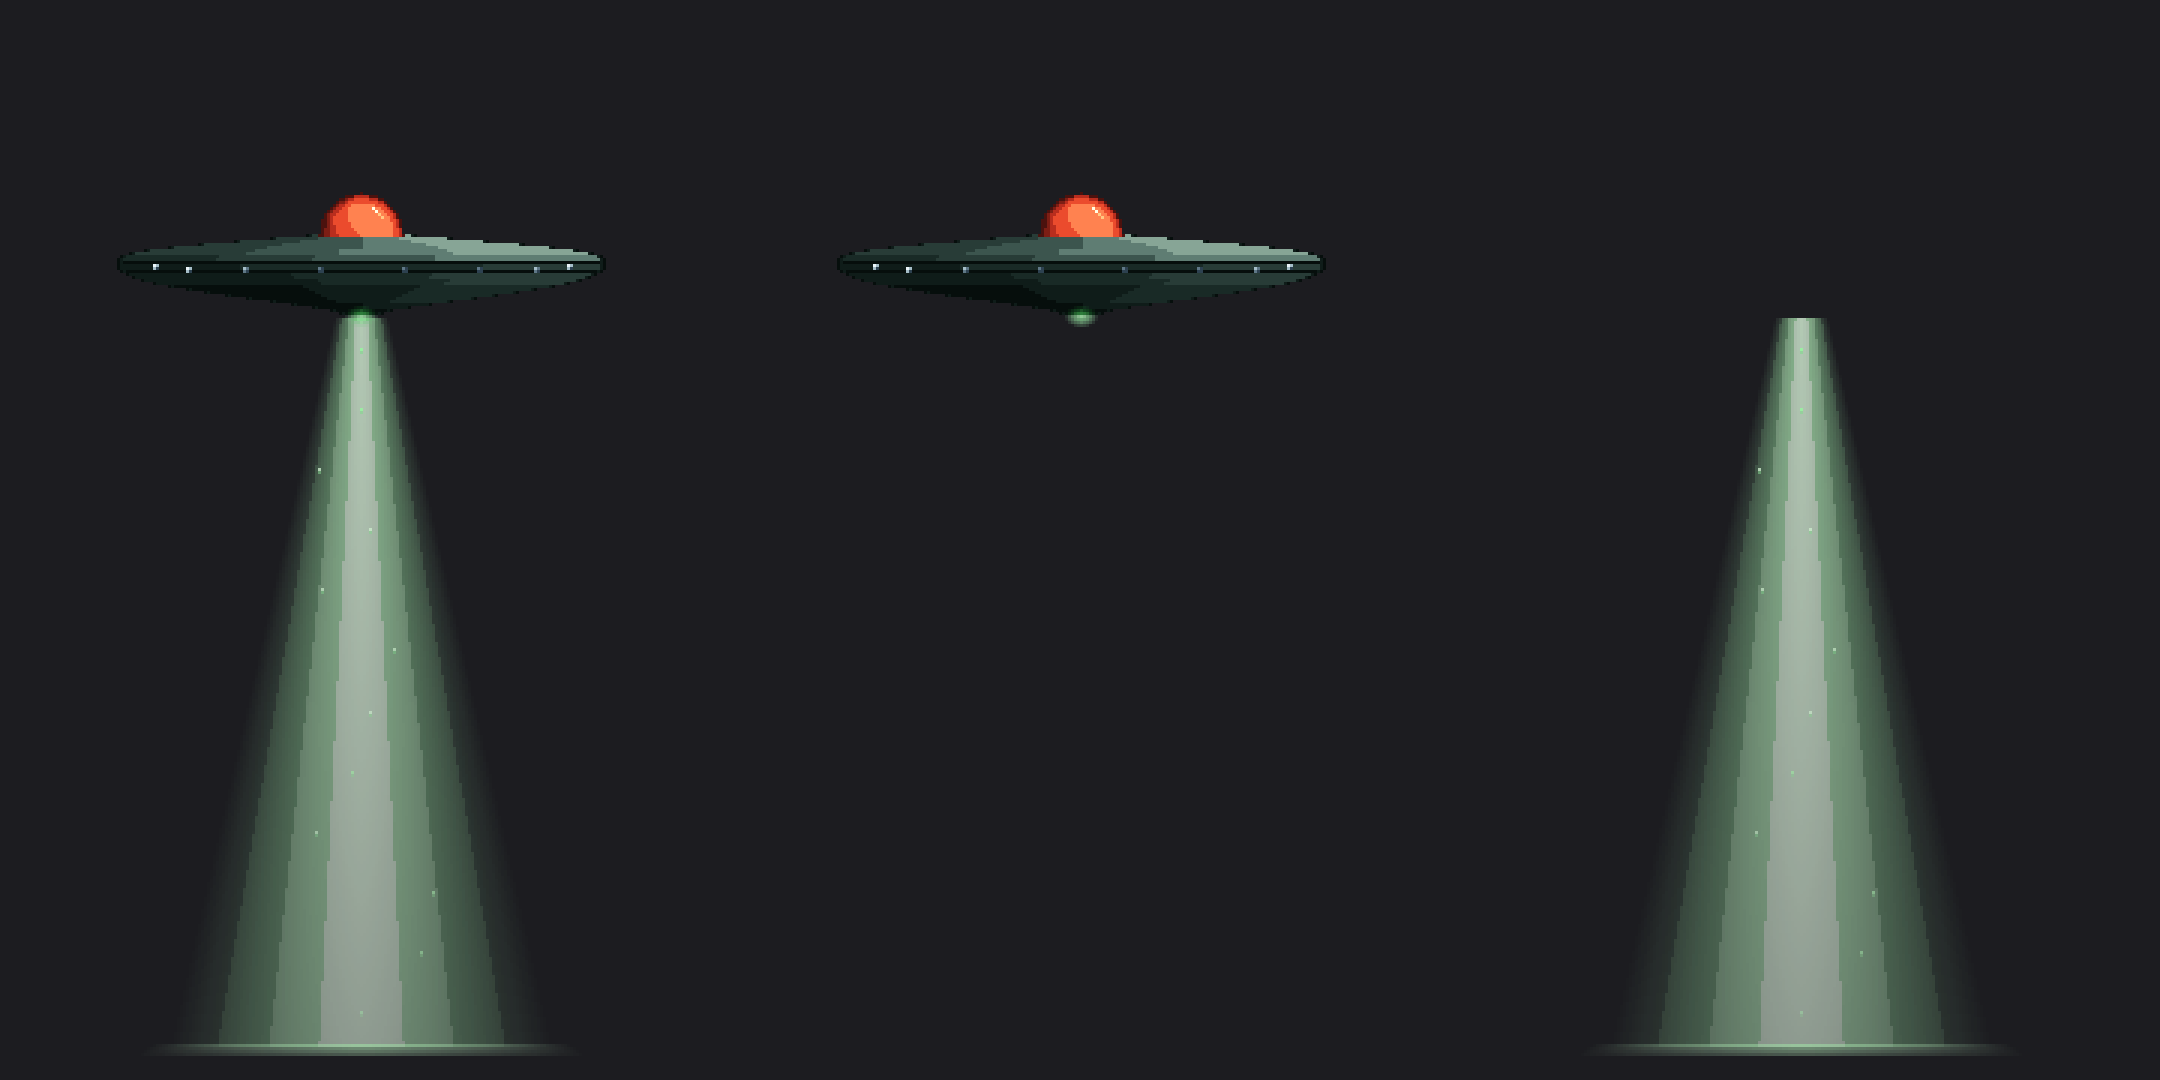
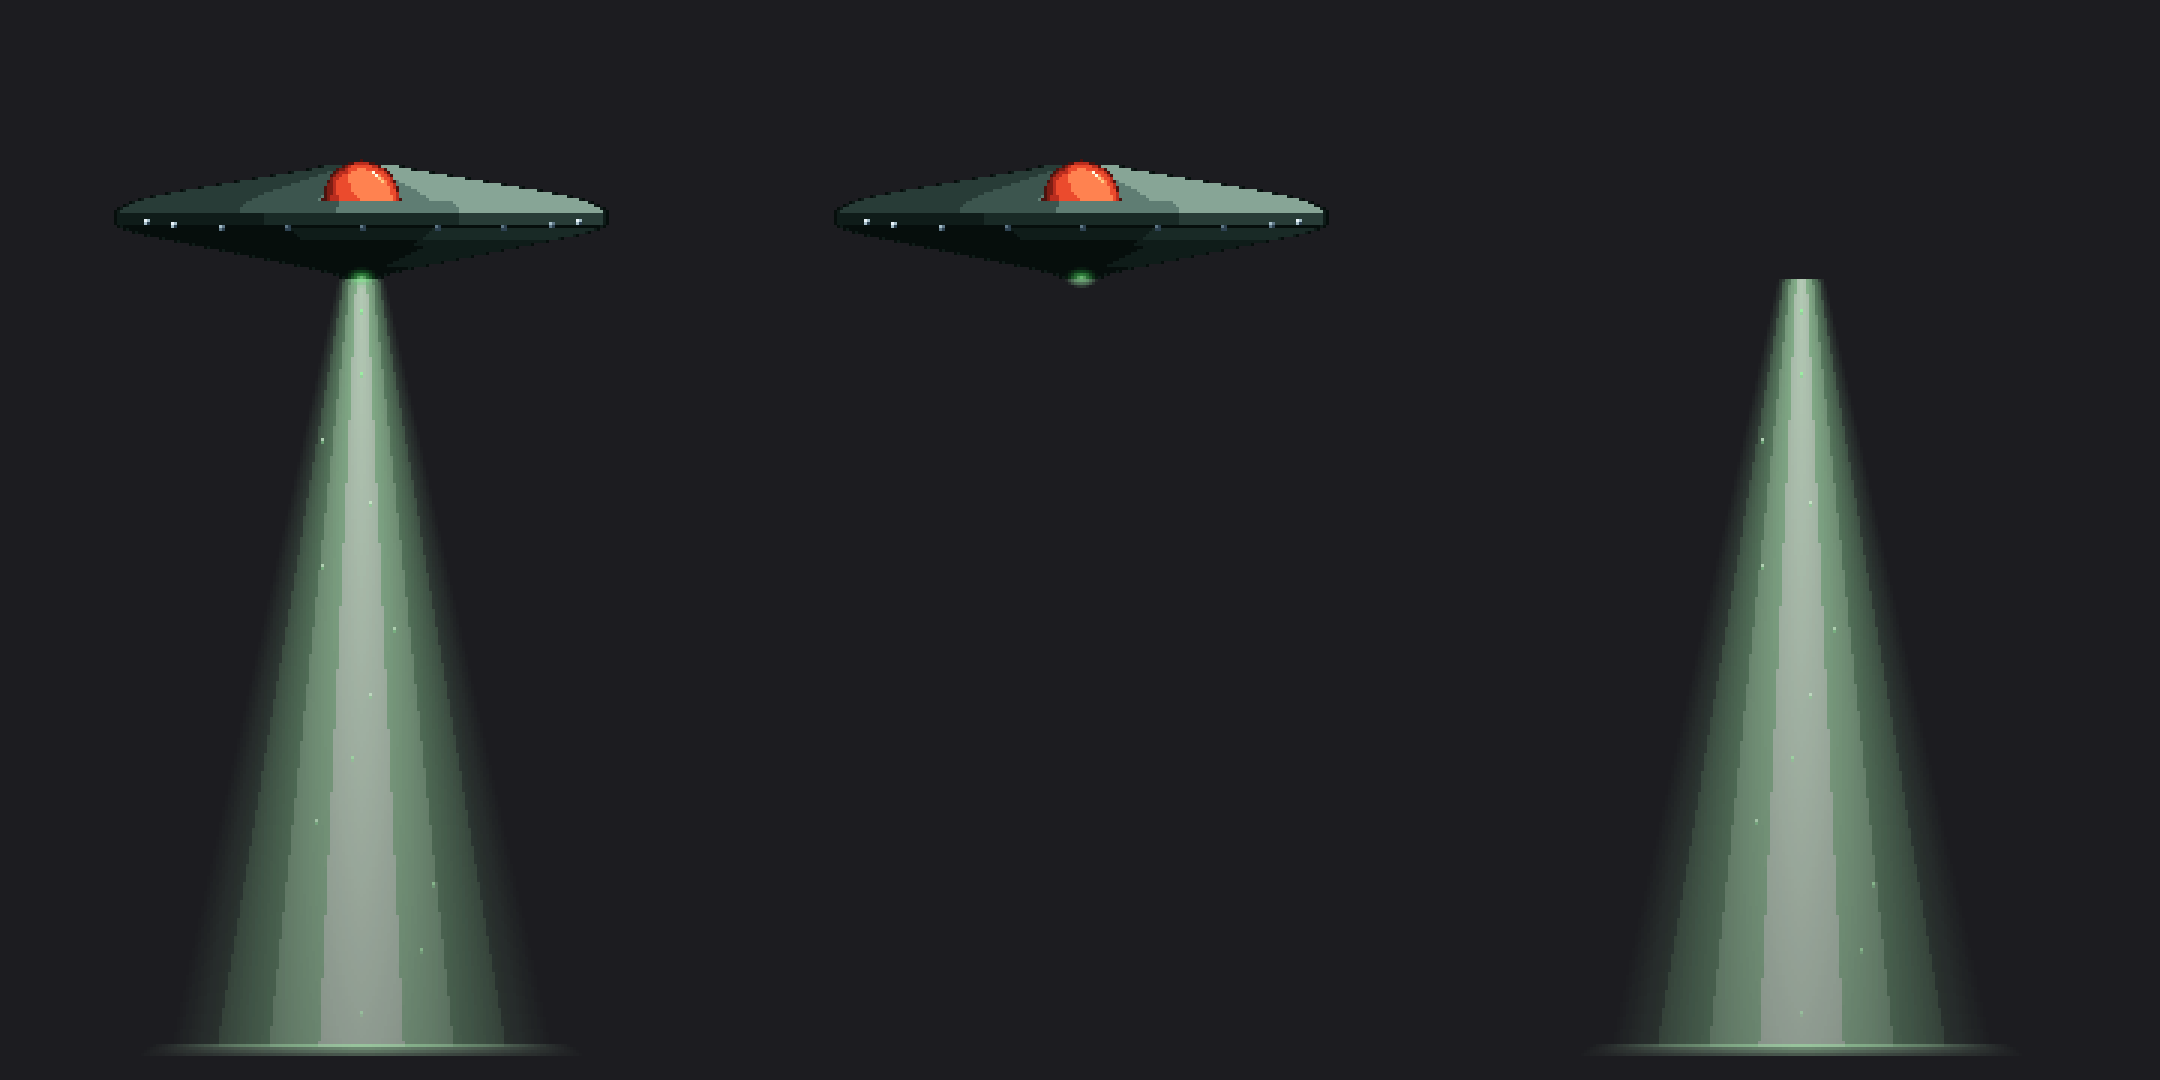
Tilt the saucer to a from-below-front perspective
To match the reference camera angle: the saucer is now seen looking up
from below and slightly forward. Key changes:

- Dome moves up (DCY_BASE 76 → 64) so it sits with most of its body
  above the saucer rim
- New SAUCER_ROWS data: the rim's back arc widens above where the dome
  base sits, then the dome is drawn on top so it occludes the central
  part of the back arc — leaving "wings" of rim curving up around it
- Front of the rim curves down through narrowing rows that transition
  into the prominent underside bowl (the big visible surface from below)
- 9 rim portholes are now placed on a wider arc (rim_rx 70 → 73) with
  a subtle vertical curve from perspective foreshortening
- Shading flipped: back arc gets the highlight (top-lit), porthole band
  is mid-tone, front rim and underside are in shadow (darkest)
- Emitter glow + beam origin moved up to track the new underside center

Changed region(s): [[0.062, 0.1528, 0.2792, 0.3972], [0.3722, 0.1528, 0.6204, 0.3056], [0.8065, 0.2444, 0.8685, 0.4583]]

diff --git a/build_ufo2_anim.py b/build_ufo2_anim.py
@@ -81,9 +81,11 @@ def hover(frame):
     return int(round(math.sin(frame / TOTAL_FRAMES * TAU) * 2))
 
 
-# ── DOME geometry (small red hemisphere on top) ──────
-DCY_BASE = 76
-DR = 14
+# ── DOME geometry (small red dome sitting on top, viewed from below) ──
+# Looking up at the UFO, only the front-upper portion of the dome shows;
+# the back of the rim curves up around it.
+DCY_BASE = 64
+DR = 13
 
 # Lighting for dome (light from upper-right, like the reference)
 _Lx, _Ly, _Lz = 0.42, 0.55, 0.72
@@ -122,36 +124,54 @@ def draw_dome(put, frame):
         put(HCX + dx, cy_base + dy, c)
 
 
-# ── SAUCER body row data (manual silhouette) ──────────
+# ── SAUCER body rows — viewed from below-front, rim back-arc curves up
+# around the dome and the underside takes up most of the silhouette.
 SAUCER_ROWS = [
-    # y, hw, role
-    (76, 18, 'rim_flare'),
-    (77, 30, 'rim_flare'),
-    (78, 42, 'rim_flare'),
-    (79, 54, 'rim_flare'),
-    (80, 64, 'rim_flare'),
-    (81, 72, 'rim_top'),
-    (82, 77, 'rim_top'),
-    (83, 80, 'body_hi'),
-    (84, 81, 'body_hi'),
-    (85, 81, 'seam'),
-    (86, 81, 'body_ports'),   # porthole band
-    (87, 81, 'body_ports'),
-    (88, 80, 'seam'),
-    (89, 78, 'body_dark'),
-    (90, 76, 'body_dark'),
-    (91, 73, 'under_top'),
-    (92, 69, 'under_top'),
-    (93, 64, 'under'),
-    (94, 58, 'under'),
-    (95, 52, 'under'),
-    (96, 45, 'under'),
-    (97, 38, 'under'),
-    (98, 30, 'under'),
-    (99, 23, 'under_end'),
-    (100, 16, 'under_end'),
-    (101, 10, 'emitter'),
-    (102, 7,  'emitter'),
+    # Back arc of the rim peeking out behind/around the dome.
+    # Drawn first, the dome will overwrite the central part — leaving
+    # the "wings" of the back arc visible to the left/right of the dome.
+    (53, 14, 'back_arc'),
+    (54, 18, 'back_arc'),
+    (55, 24, 'back_arc'),
+    (56, 30, 'back_arc'),
+    (57, 36, 'back_arc'),
+    (58, 42, 'back_arc'),
+    (59, 48, 'back_arc'),
+    (60, 54, 'back_arc'),
+    (61, 60, 'back_arc'),
+    (62, 65, 'back_arc'),
+    (63, 70, 'back_arc'),
+    (64, 74, 'back_arc'),
+    # Rim sides reaching widest
+    (65, 77, 'rim_edge'),
+    (66, 79, 'rim_edge'),
+    (67, 81, 'rim_edge'),
+    (68, 82, 'rim_edge'),
+    # Porthole band (the front-bottom of the rim ellipse, where lights are)
+    (69, 82, 'ports'),
+    (70, 82, 'ports'),
+    (71, 82, 'ports'),
+    (72, 82, 'ports'),
+    (73, 81, 'ports_bot'),
+    # Front rim curving down (lower half of rim ellipse)
+    (74, 79, 'rim_front'),
+    (75, 76, 'rim_front'),
+    (76, 72, 'rim_front'),
+    (77, 67, 'rim_front'),
+    # Underside (the big visible bowl)
+    (78, 62, 'under_top'),
+    (79, 57, 'under_top'),
+    (80, 52, 'under'),
+    (81, 47, 'under'),
+    (82, 42, 'under'),
+    (83, 37, 'under'),
+    (84, 32, 'under'),
+    (85, 27, 'under'),
+    (86, 22, 'under'),
+    (87, 17, 'under_end'),
+    (88, 13, 'under_end'),
+    (89, 9,  'emitter'),
+    (90, 7,  'emitter'),
 ]
 
 
@@ -159,44 +179,44 @@ def shade_saucer(role, dx, hw):
     rel = dx / max(hw, 1)
     if abs(dx) == hw and hw > 3: return HULL_O
     if abs(dx) >= hw - 1 and hw > 6: return HULL_DD
-    if role == 'rim_flare':
-        if rel > 0.4: return HULL_VL
-        if rel > 0.0: return HULL_HI
-        if rel > -0.5: return HULL_L
+    if role == 'back_arc':
+        # Top of rim catches light from above
+        if rel > 0.3:   return HULL_VL
+        if rel > -0.2:  return HULL_HI
+        if rel > -0.5:  return HULL_L
         return HULL_M
-    if role == 'rim_top':
-        if rel > 0.4: return HULL_VL
-        if rel > -0.1: return HULL_HI
-        if rel > -0.5: return HULL_L
+    if role == 'rim_edge':
+        if rel > 0.4:   return HULL_VL
+        if rel > -0.1:  return HULL_HI
+        if rel > -0.5:  return HULL_L
         return HULL_M
-    if role == 'body_hi':
-        if rel > 0.3: return HULL_HI
-        if rel > -0.2: return HULL_L
-        if rel > -0.6: return HULL_M
-        return HULL_D
-    if role == 'seam': return HULL_O
-    if role == 'body_ports':
-        # Background for porthole band — mostly dark; lights drawn over
-        if rel > 0.5: return HULL_M
-        if rel > -0.5: return HULL_D
+    if role == 'ports':
+        # Background for portholes — mid hull; lights drawn on top
+        if rel > 0.4:   return HULL_M
+        if rel > -0.4:  return HULL_D
         return HULL_DD
-    if role == 'body_dark':
-        if rel > 0.3: return HULL_M
-        if rel > -0.3: return HULL_D
-        return HULL_DD
+    if role == 'ports_bot':
+        # Thin seam below porthole band
+        return HULL_O
+    if role == 'rim_front':
+        # In shadow — we see the underside of the front rim
+        if rel > 0.3:   return HULL_D
+        if rel > -0.3:  return HULL_DD
+        return HULL_O
     if role == 'under_top':
-        if rel > 0.4: return HULL_M
-        if rel > -0.2: return HULL_D
-        return HULL_DD
+        # Just below the rim — darkest shadow band
+        if rel > 0.3:   return HULL_DD
+        if rel > -0.3:  return HULL_O
+        return HULL_O
     if role == 'under':
-        if rel > 0.3: return HULL_D
-        if rel > -0.3: return HULL_DD
+        # Curved underside in shadow
+        if rel > 0.4:   return HULL_DD
+        if rel > -0.4:  return HULL_O
         return HULL_O
     if role == 'under_end':
-        if rel > 0: return HULL_DD
         return HULL_O
     if role == 'emitter':
-        # Emitter point — has bright greenish core
+        # Emitter point gets overwritten by green glow
         return HULL_O
     return HULL_M
 
@@ -208,21 +228,17 @@ def draw_saucer(put, frame):
         for dx in range(-hw, hw + 1):
             put(HCX + dx, ys, shade_saucer(role, dx, hw))
 
-    # ── Porthole row — pale gray-blue lights, with a soft blink ─
-    blink_t = (frame / TOTAL_FRAMES + 0.0) % 1.0
-    # 8 portholes spaced across the rim arc
-    n_ports = 8
-    rim_rx = 70
-    rim_cy = 86 + bob
+    # ── Porthole row — pale gray-blue lights along the rim arc ─
+    blink_t = (frame / TOTAL_FRAMES) % 1.0
+    n_ports = 9
+    rim_rx = 73
+    rim_cy = 71 + bob
+    rim_ry = 2  # subtle vertical perspective curve
     for i in range(n_ports):
-        # spread across front-facing half (with perspective curve)
-        theta = math.pi * (i + 0.5) / n_ports - math.pi / 2  # -pi/2 .. +pi/2
+        theta = math.pi * (i + 0.5) / n_ports - math.pi / 2
         px = HCX + int(round(rim_rx * math.sin(theta)))
-        # subtle vertical curve from perspective
-        py_off = int(round(1.0 * math.cos(theta)))
-        py = rim_cy + py_off
-        # individual blink phase per porthole
-        phase = (blink_t + i * 0.13) % 1.0
+        py = rim_cy + int(round(rim_ry * math.cos(theta)))
+        phase = (blink_t + i * 0.11) % 1.0
         bright = 0.65 + 0.35 * math.sin(phase * TAU)
         if bright > 0.8:
             inner, outer = PORT_W, PORT_HI
@@ -230,21 +246,19 @@ def draw_saucer(put, frame):
             inner, outer = PORT_HI, PORT_M
         else:
             inner, outer = PORT_M, PORT_D
-        # 2x2 porthole
         put(px, py, inner)
         put(px + 1, py, outer)
         put(px, py + 1, outer)
         put(px + 1, py + 1, PORT_D)
 
-    # Emitter glow under the saucer (bright greenish spot where beam exits)
+    # Bright greenish emitter glow at the bottom-center of the underside
     pulse = 0.85 + 0.15 * math.sin(frame / TOTAL_FRAMES * TAU * 3)
-    eg_cx, eg_cy = HCX, 103 + bob
-    for dy in range(-4, 4):
+    eg_cx, eg_cy = HCX, 90 + bob
+    for dy in range(-3, 4):
         for dx in range(-6, 7):
-            d = math.sqrt(dx * dx + (dy * 1.5) ** 2)
+            d = math.sqrt(dx * dx + (dy * 1.6) ** 2)
             if d > 5.5: continue
-            edge = 1.0 - d / 5.5
-            edge *= pulse
+            edge = (1.0 - d / 5.5) * pulse
             if   edge > 0.85: col = BEAM_CORE
             elif edge > 0.55: col = BEAM_HOT
             elif edge > 0.30: col = BEAM_BR
@@ -256,15 +270,14 @@ def draw_saucer(put, frame):
 def draw_beam(put, frame):
     """Wide green tractor beam — continuous, glowing, soft-edged."""
     bob = hover(frame)
-    TOP = 104 + bob
+    TOP = 91 + bob
     BOT = 348
-    HW_TOP = 9
-    HW_BOT = 64       # much wider than the searchlight version
+    HW_TOP = 8
+    HW_BOT = 64
     max_h = BOT - TOP
 
     pulse = 0.88 + 0.12 * math.sin(frame / TOTAL_FRAMES * TAU * 3)
 
-    # Beam body — soft-edged cone, brighter at the top (source)
     for y in range(TOP, BOT + 1):
         rel = (y - TOP) / max_h
         hw = HW_TOP + rel * (HW_BOT - HW_TOP)
@@ -286,7 +299,7 @@ def draw_beam(put, frame):
                 col = BEAM_D;    alpha = int(55 * a_base)
             put(HCX + dx, y, col, a=min(255, max(0, alpha)))
 
-    # Subtle inner glow particles drifting downward (very faint)
+    # Subtle inner glow particles drifting downward
     n_pts = 12
     for i in range(n_pts):
         rng  = ((math.sin(i * 12.9898 + 78.233) * 43758.5453) % 1 + 1) % 1
@@ -302,7 +315,7 @@ def draw_beam(put, frame):
         put(px, int(py), col, a=a)
         put(px, int(py) + 1, BEAM_BR, a=a // 2)
 
-    # Soft floor splash where the beam hits
+    # Soft floor splash
     splash_hw = HW_BOT + 6
     for dy in range(0, 4):
         for dx in range(-splash_hw - dy * 2, splash_hw + dy * 2 + 1):
@@ -320,7 +333,7 @@ def build_frame(frame, layers=frozenset({'ufo', 'beam'})):
         draw_beam(put, frame)
     if 'ufo' in layers:
         draw_saucer(put, frame)
-        draw_dome(put, frame)
+        draw_dome(put, frame)   # dome drawn LAST so it covers the back-arc center
     return img
 
 
